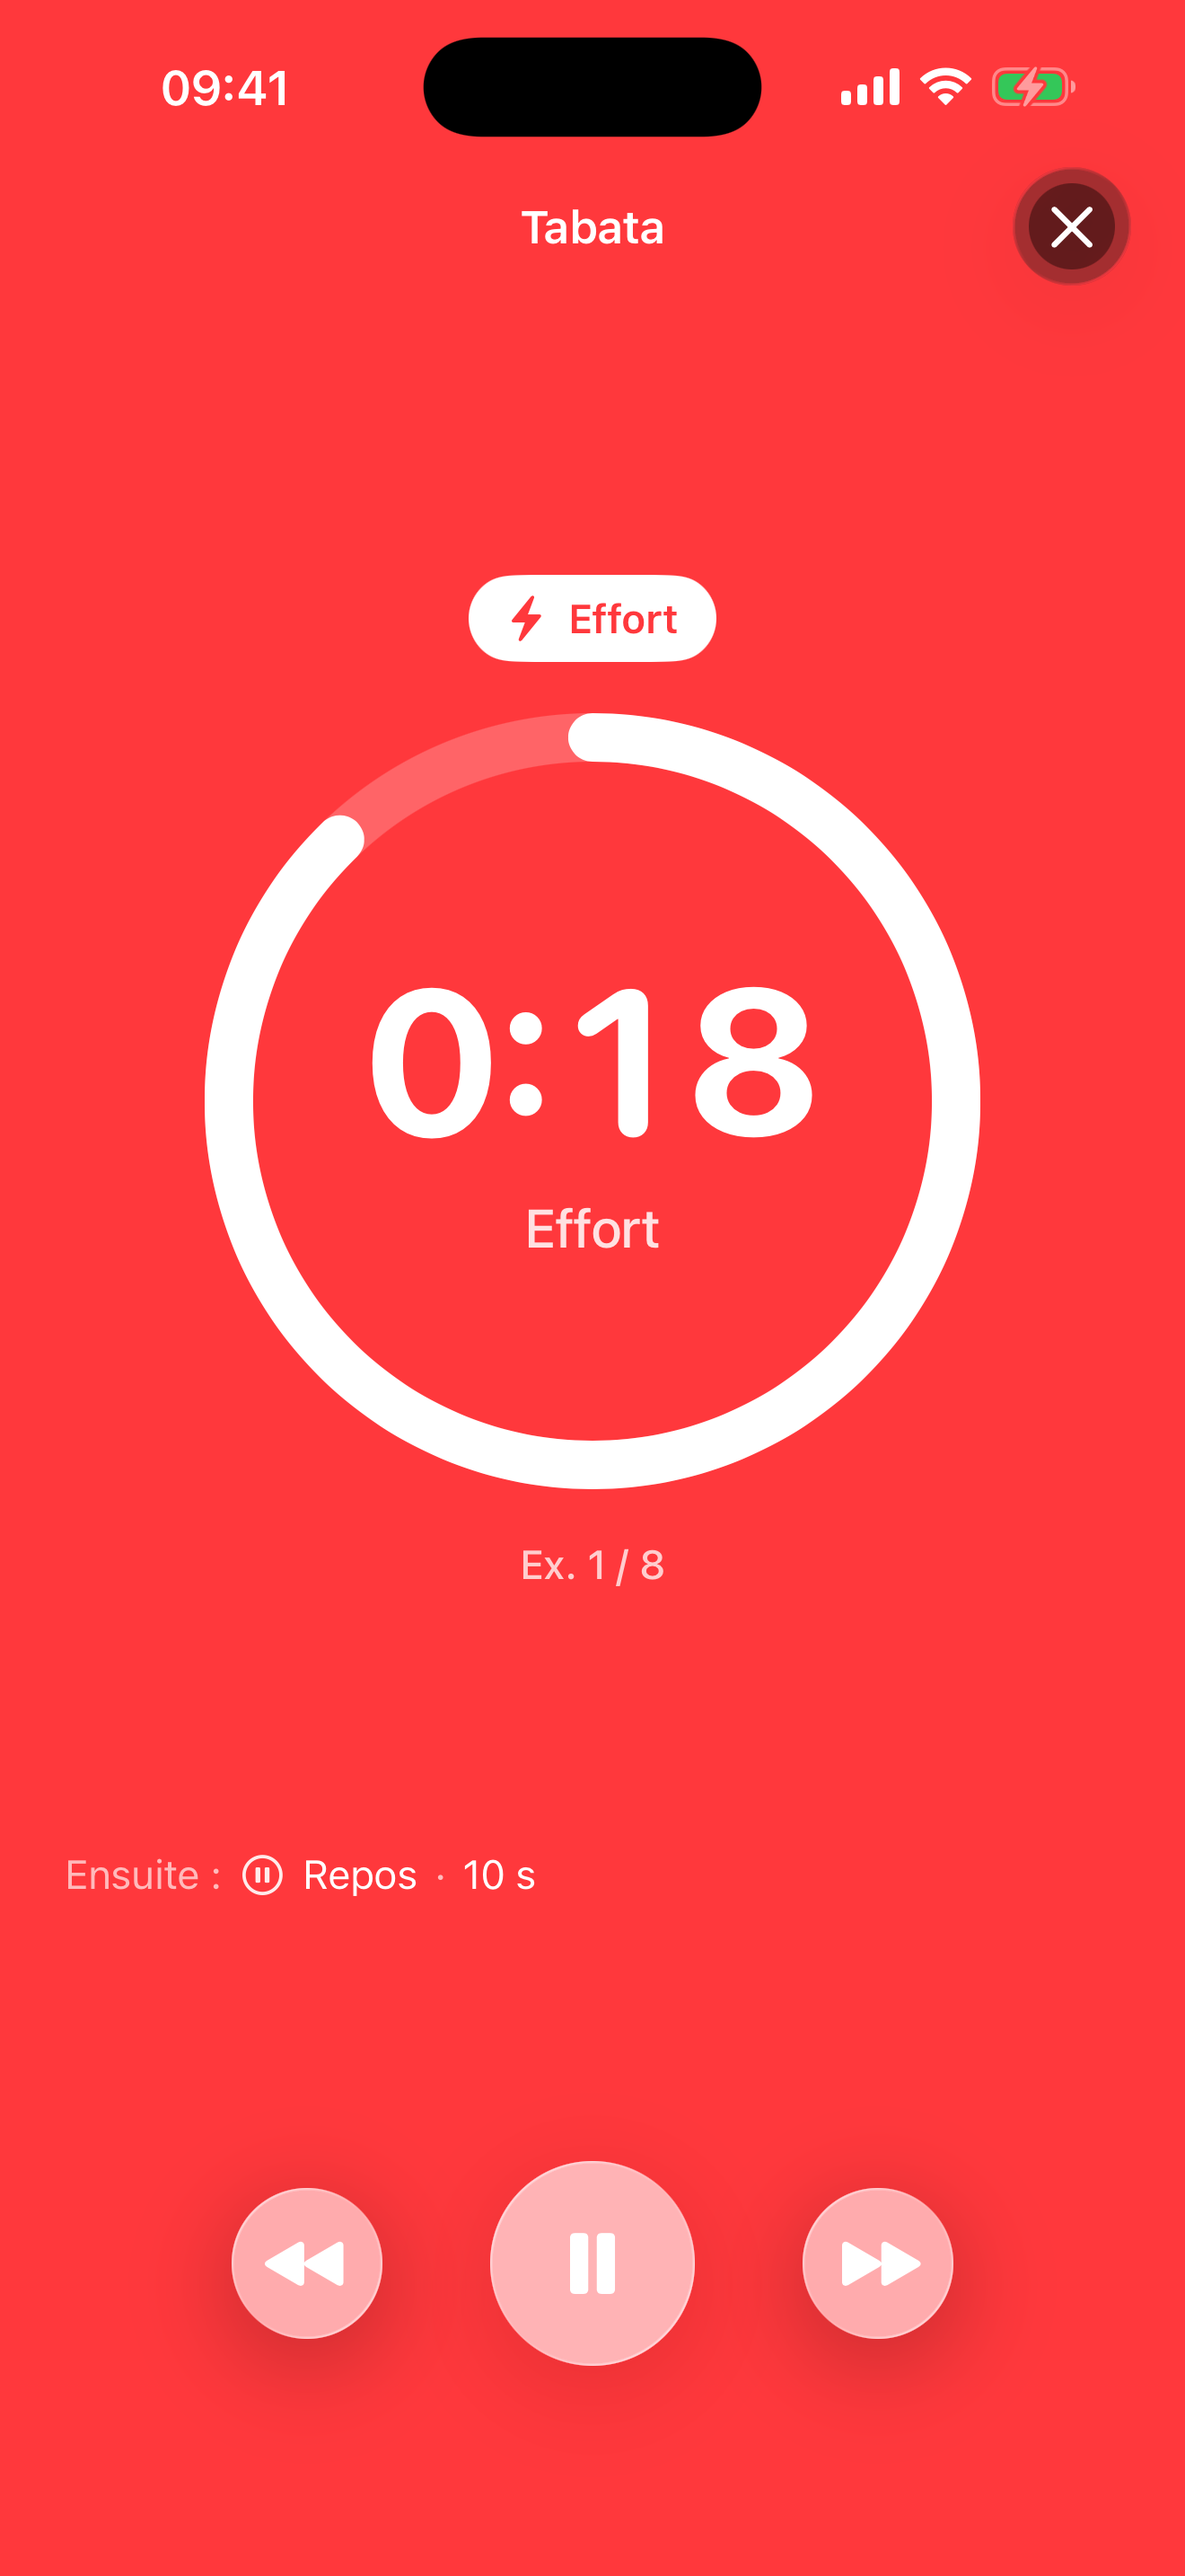
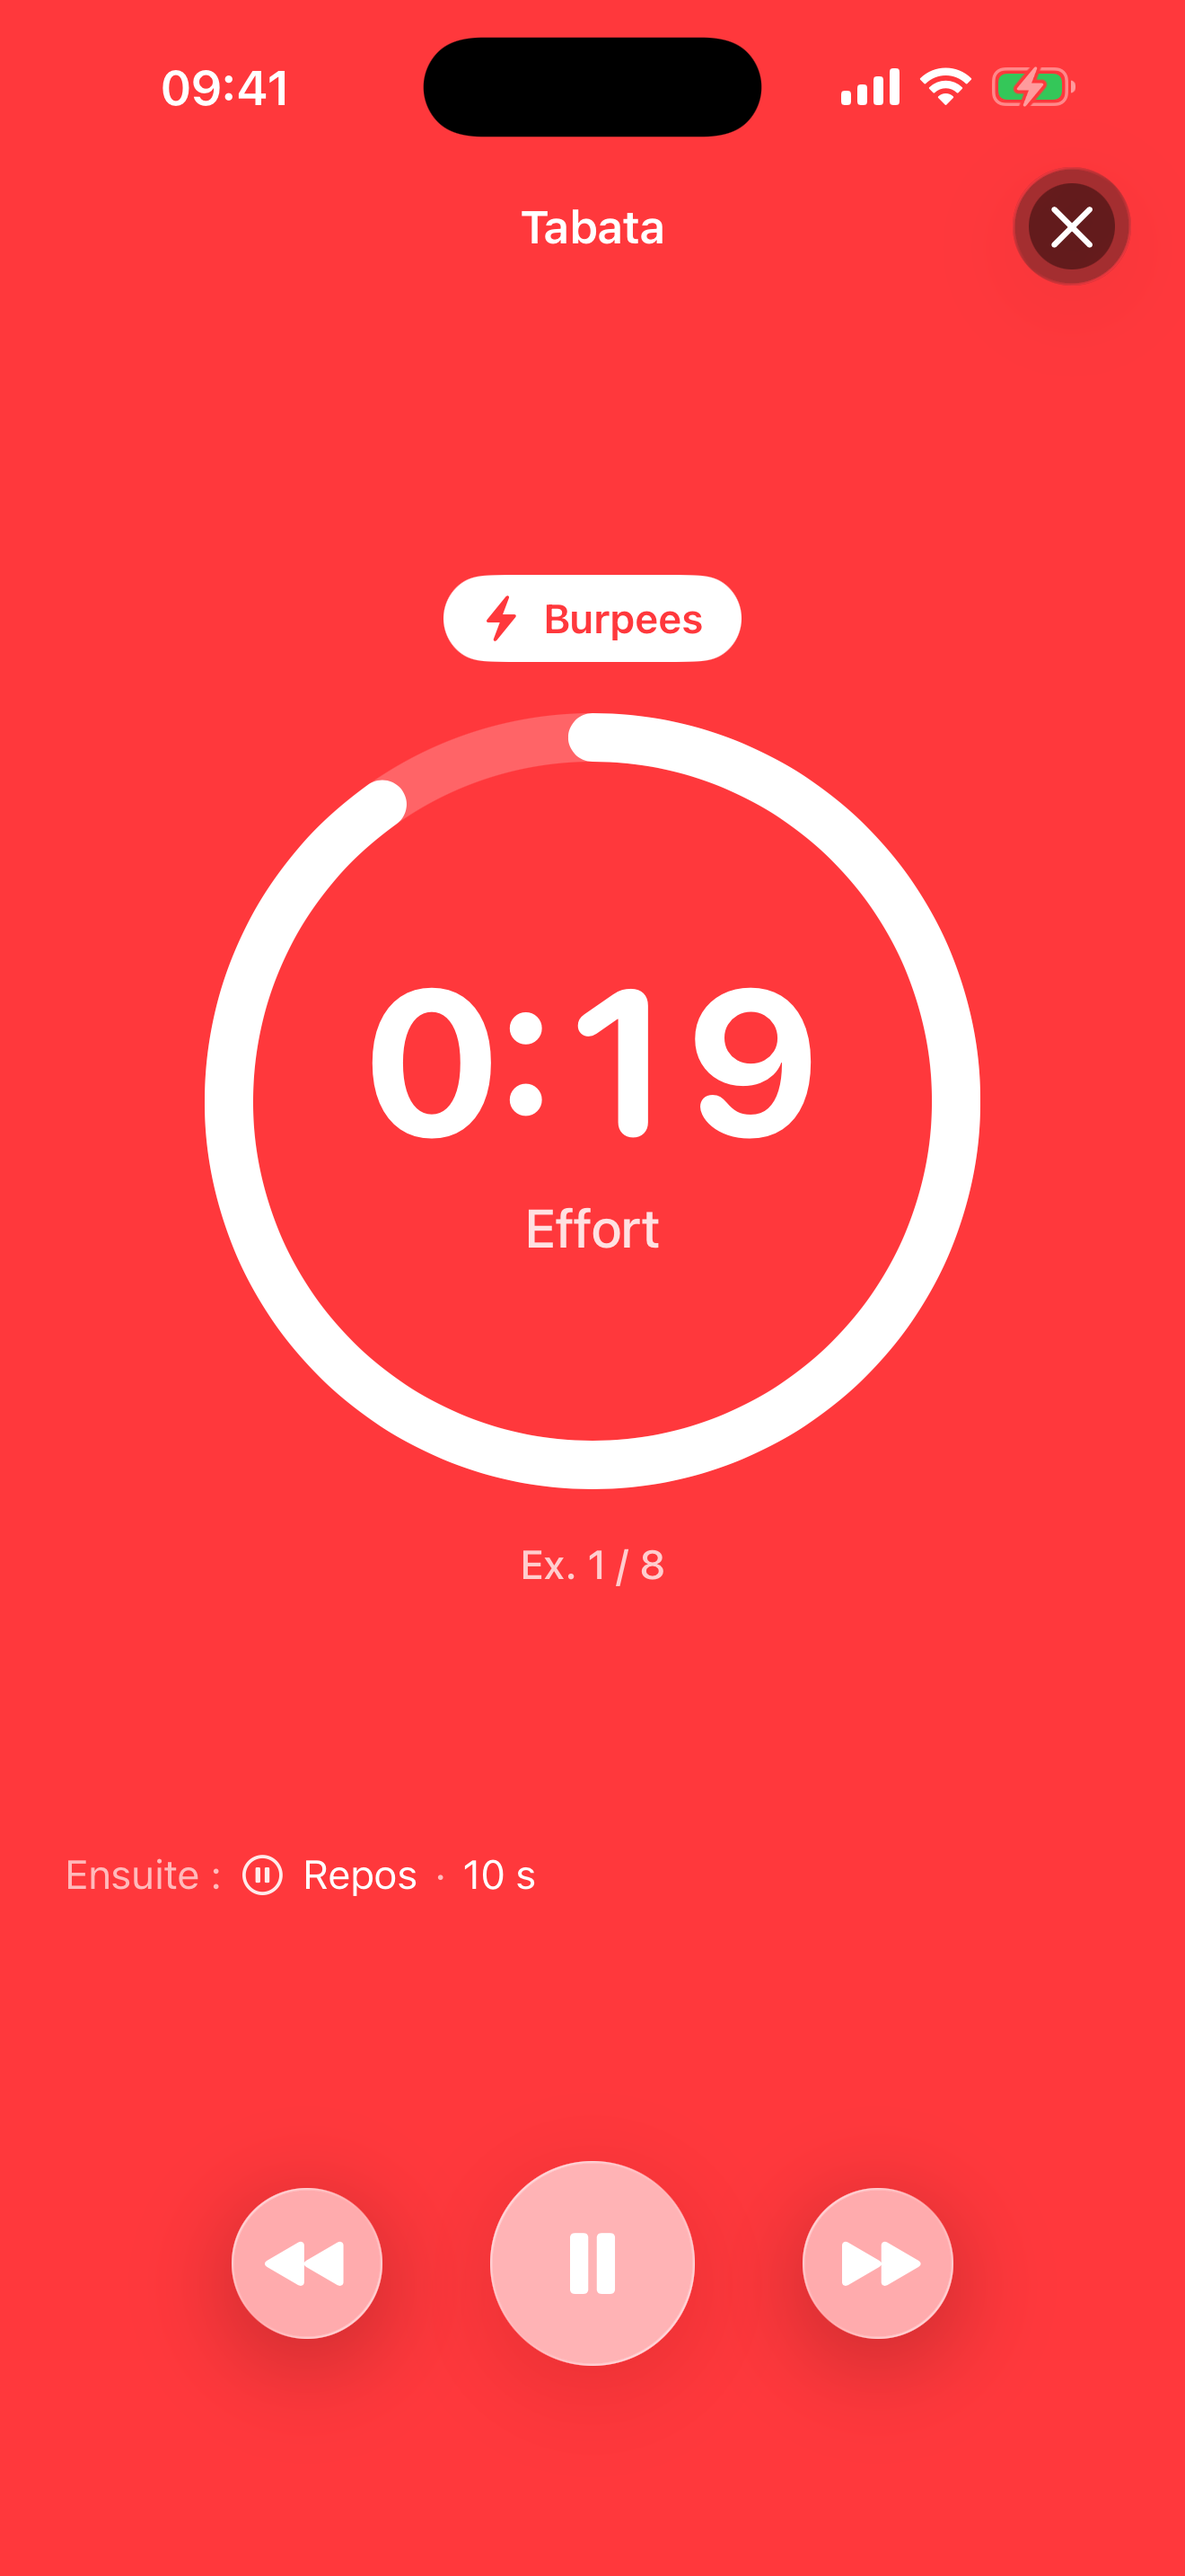
Captures, notes de version et rafale anti-flou
L'éditeur défile automatiquement jusqu'à la section des noms en mode capture
(#if DEBUG) : la section est en bas du formulaire et n'apparaissait qu'à moitié
coupée sur la capture App Store.

capture-screenshots.sh tire désormais une rafale de 6 vues et retient la plus
nette, mesurée sur la bande centrale. La transition numérique du chronomètre
rendait floue environ une capture sur trois. Modification propagée au pipeline
réutilisable ~/.claude/appstore-prep/.

Claude-Session: https://claude.ai/code/session_011o8wawVmdxXX9mnUUtJfgi

Changed region(s): [[0.3727, 0.2172, 0.6212, 0.2793], [0.5902, 0.3724, 0.6833, 0.4344], [0.2795, 0.2793, 0.3417, 0.3414]]

diff --git a/HIIT974/WorkoutEditorView.swift b/HIIT974/WorkoutEditorView.swift
@@ -69,6 +69,7 @@ struct WorkoutEditorView: View {
 
     var body: some View {
         NavigationStack {
+            ScrollViewReader { proxy in
             Form {
                 Section {
                     ProportionBar(prepareSeconds: prepareSeconds,
@@ -133,6 +134,7 @@ struct WorkoutEditorView: View {
                 } footer: {
                     Text("Facultatif. Un exercice nommé s'affiche à la place de « Effort » pendant la séance.")
                 }
+                .id(Self.namesSectionID)
             }
             .navigationTitle(existingWorkout != nil ? "Modifier" : "Nouvelle séance")
             .navigationBarTitleDisplayMode(.inline)
@@ -146,8 +148,21 @@ struct WorkoutEditorView: View {
                         .fontWeight(.semibold)
                 }
             }
+            #if DEBUG
+            // Capture d'écran App Store : la section des noms est en bas du formulaire,
+            // on la remonte pour qu'elle soit visible sans interaction.
+            .onAppear {
+                guard ProcessInfo.processInfo.arguments.contains("-screenshotEditor") else { return }
+                DispatchQueue.main.asyncAfter(deadline: .now() + 0.4) {
+                    proxy.scrollTo(Self.namesSectionID, anchor: .top)
+                }
+            }
+            #endif
+            }
         }
     }
+
+    private static let namesSectionID = "exercise-names-section"
 
     /// Noms tels qu'ils seront persistés : bornés à `sets`, nettoyés, et sans entrées
     /// vides en fin de tableau (une séance sans aucun nom repart donc de `[]`).
